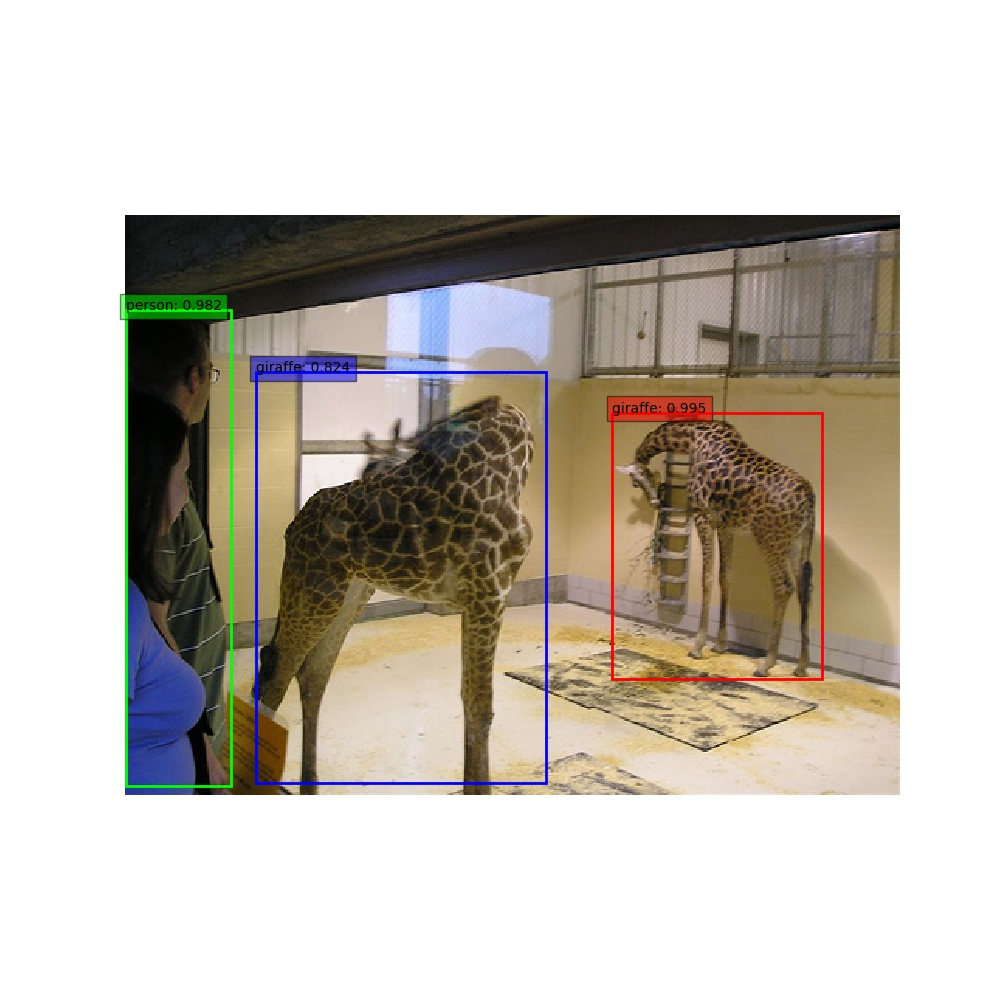
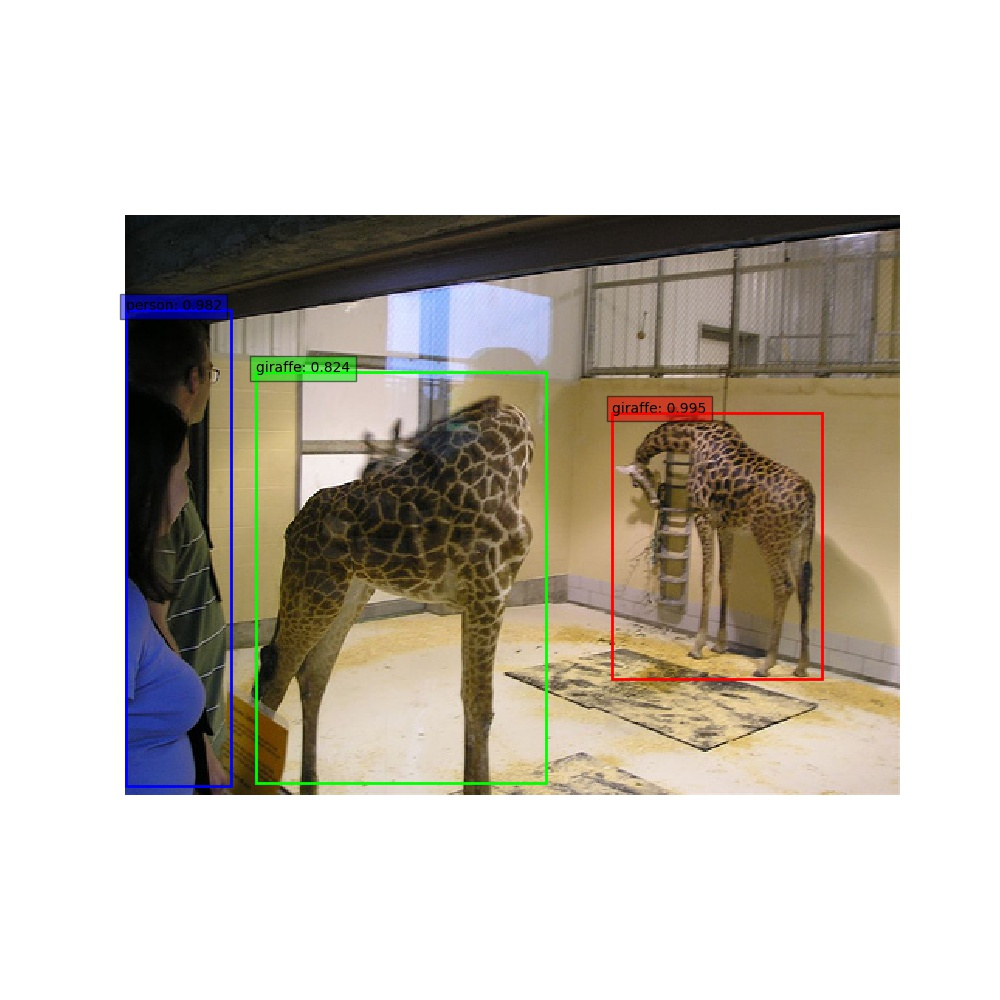
added maskrcnn and retinanet detections

Changed region(s): [[0.124, 0.279, 0.558, 0.806]]

diff --git a/main.py b/main.py
@@ -1,5 +1,3 @@
-# https://medium.com/@sightengine_/image-upload-and-moderation-with-python-and-flask-e7585f43828a
-
 from flask import Flask, render_template, request            
 import subprocess 
 import shlex
@@ -97,8 +95,13 @@ def choose(fname, context):
     return algo
 
 # ADD ALGORITHM AS PARAMETER
-def detect(fname):
-    subprocess.call(shlex.split('./connect.sh ' + fname))
+def detect(fname, algo):
+    if algo==1:
+        subprocess.call(shlex.split('./detect/retinanet.sh ' + fname))
+    elif algo==3:
+        subprocess.call(shlex.split('./detect/maskrcnn.sh ' + fname))
+    else:
+        subprocess.call(shlex.split('./detect/yolo.sh ' + fname))
 
     image = skimage.io.imread(fname)
 
@@ -137,7 +140,7 @@ def detect(fname):
         currentAxis.add_patch(plt.Rectangle(*coords, fill=False, edgecolor=color, linewidth=2))
         currentAxis.text(p[0], p[1], display_txt, bbox={'facecolor':color, 'alpha':0.5})
         
-    plt.savefig('detections/' + fname[9:])
+    plt.savefig('detections/' + str(algorithms[algo-1]) + '_' + fname[30:])
     plt.close()
 
 @app.route("/")
@@ -158,8 +161,8 @@ def upload_file():
     file = request.files['image'] 
     f = os.path.join(app.config['UPLOAD_FOLDER'], file.filename)
     file.save(f)
-    algo = choose(os.path.join(app.config['UPLOAD_FOLDER'], file.filename), [place,inside,outside,filled,light,surrounding,time,action])
-    detect(os.path.join(app.config['UPLOAD_FOLDER'], file.filename)) # ADD ALGORITHM AS PARAMETER
+    algo = choose('/home/alinoleumm/assv/uploads/' + str(file.filename), [place,inside,outside,filled,light,surrounding,time,action])
+    detect('/home/alinoleumm/assv/uploads/' + str(file.filename), algo) 
     return 'Best algorithm for this image is ' + algorithms[algo-1] + '.'
 
 if __name__ == "__main__":
